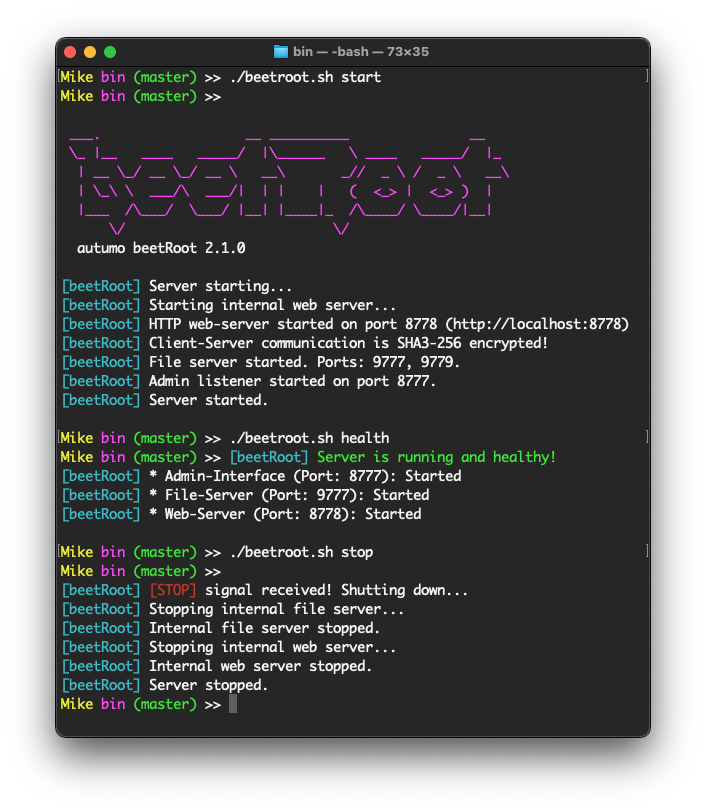
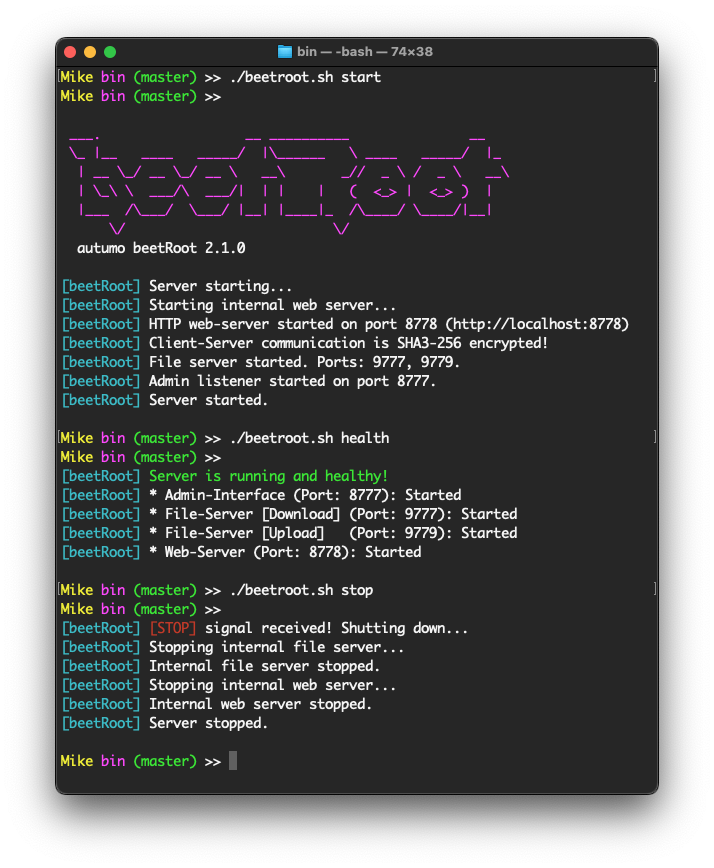
Changes:
- Health status implementation improved

Changed region(s): [[0.0623, 0.0308, 0.9348, 0.9248]]

diff --git a/src/main/java/ch/autumo/beetroot/server/BaseServer.java b/src/main/java/ch/autumo/beetroot/server/BaseServer.java
@@ -26,6 +26,7 @@ import java.io.IOException;
 import java.lang.reflect.Constructor;
 import java.net.ServerSocket;
 import java.net.Socket;
+import java.nio.file.Path;
 import java.util.ArrayList;
 import java.util.HashMap;
 import java.util.Iterator;
@@ -51,7 +52,8 @@ import ch.autumo.beetroot.server.message.ClientAnswer;
 import ch.autumo.beetroot.server.message.HealthAnswer;
 import ch.autumo.beetroot.server.message.ServerCommand;
 import ch.autumo.beetroot.server.message.StopAnswer;
-import ch.autumo.beetroot.server.message.file.PingRequest;
+import ch.autumo.beetroot.server.message.file.PingDownloadRequest;
+import ch.autumo.beetroot.server.message.file.PingUploadRequest;
 import ch.autumo.beetroot.server.modules.Dispatcher;
 import ch.autumo.beetroot.server.modules.FileStorage;
 import ch.autumo.beetroot.transport.DefaultServerSocketFactory;
@@ -758,30 +760,47 @@ public abstract class BaseServer {
 			if (command.getCommand().equals(Communicator.CMD_FILE_REQUEST)) {
 				
 				if (startFileServer) {
-					Download download = null;
-					try {
-						
-						String domain = "default";
-						if (command.getDomain() != null)
-							domain = command.getDomain();
-						
-						if (fileStorage != null)
-							download = fileStorage.findFile(command.getFileId(), domain);
-						else
-							download = this.findFile(command.getFileId(), domain);
-						
-					} catch (Exception e) {
-						LOG.error("Find file request failed for file ID '"+command.getFileId()+"'!", e);
-						System.err.println(BaseServer.ansiErrServerName + " Find file request failed for file ID '"+command.getFileId()+"'!");
-						download = null;
-					}
 					
+					final String fileId = command.getFileId();
+					Download download = null;
+					
+					String domain = "default";
+					if (command.getDomain() != null)
+						domain = command.getDomain();
+					
+					if (fileId.equals(PingDownloadRequest.PING_FILE_ID)) {
+						
+						try {
+							final Path path = OS.createTemporaryFile(PingDownloadRequest.PING_FILE_PREFIX);
+							download = new Download(fileId, path.getFileName().toString(), path.toFile(), domain);
+						} catch (Exception e) {
+							LOG.error("Ping file request failed for file ID '"+fileId+"'!", e);
+							System.err.println(BaseServer.ansiErrServerName + " Find file request failed for file ID '"+fileId+"'!");
+							download = null;
+						}
+						
+					} else { // Default case, really find a file!
+						
+						try {
+							if (fileStorage != null)
+								download = fileStorage.findFile(fileId, domain);
+							else
+								download = this.findFile(fileId, domain);
+							
+						} catch (Exception e) {
+							LOG.error("Find file request failed for file ID '"+fileId+"'!", e);
+							System.err.println(BaseServer.ansiErrServerName + " Find file request failed for file ID '"+fileId+"'!");
+							download = null;
+						}
+					}
+
 					if (download != null) { 
 						fileServer.addToDownloadQueue(download);
 						return new ClientAnswer(download.getFileName(), download.getFileId());
 					} else {
-						return new ClientAnswer("No file found with unique file ID '" + command.getFileId() + "'!", ClientAnswer.TYPE_FILE_NOK);
+						return new ClientAnswer("No file found with unique file ID '" + fileId + "'!", ClientAnswer.TYPE_FILE_NOK);
 					}
+					
 				} else {
 					LOG.error("A client requested a file, but file server is not running!");
 					return new ClientAnswer("File server is not running!", ClientAnswer.TYPE_FILE_NOK);
@@ -888,37 +907,52 @@ public abstract class BaseServer {
 	 */
 	protected boolean printHealthStatus(boolean hasNoIssues) {
 		
-		boolean isAdminPortListening = false;
-		boolean isFileServerPortListening = false;
-		boolean isWebServerPortListening = false;
-
-		PingRequest pingRequest = null;
-		try {
-			pingRequest = new PingRequest();
-		} catch (IOException e) {
-			// Well...
-		}
-		
-		ClientAnswer answer = null;
-		try {
-			answer = ClientCommunicator.sendServerCommand(pingRequest);
-			isAdminPortListening = answer != null;
-		} catch (Exception e) {
-			isAdminPortListening = false;
-		}
+		// If the call made it here, the admin-port is listening!
+		boolean isAdminPortListening = true;
 		hasNoIssues = hasNoIssues && isAdminPortListening;
 
+		boolean isFileDownloadPortListening = false;
+		boolean isFileUploadPortListening = false;
+		boolean isWebServerPortListening = false;
+
 		if (startFileServer) {
+
+			ClientAnswer answer = null;
+			
+			// File server (Download)
+			final PingDownloadRequest pingDownloadRequest = new PingDownloadRequest();
 			try {
-				answer = ClientFileTransfer.sendFile(pingRequest.getFile());			
-				isFileServerPortListening = answer != null;
+				answer = ClientCommunicator.sendServerCommand(pingDownloadRequest);
 			} catch (Exception e) {
-				isFileServerPortListening = false;
 			}
+			try {
+				final File file = ClientFileTransfer.getFile(pingDownloadRequest.getFileId(), PingDownloadRequest.PING_FILE_PREFIX + "del.tmp");			
+				isFileDownloadPortListening = file != null && file.exists();
+				file.delete();
+			} catch (Exception e) {
+				isFileDownloadPortListening = false;
+			}
+			
+			// File server (Upload)
+			PingUploadRequest pingUploadRequest = null;
+			try {
+				pingUploadRequest = new PingUploadRequest();
+				answer = ClientCommunicator.sendServerCommand(pingUploadRequest);
+			} catch (Exception e) {
+			}
+			try {
+				answer = ClientFileTransfer.sendFile(pingUploadRequest.getFile());			
+				isFileUploadPortListening = answer != null && answer.getType() > 0;
+			} catch (Exception e) {
+				isFileUploadPortListening = false;
+			}
+			
 		} else {
-			isFileServerPortListening = true;
+			isFileDownloadPortListening = true;
+			isFileUploadPortListening = true;
 		}
-		hasNoIssues = hasNoIssues && isFileServerPortListening;
+		hasNoIssues = hasNoIssues && isFileDownloadPortListening;
+		hasNoIssues = hasNoIssues && isFileUploadPortListening;
 		
 		if (startWebServer) {
 			final boolean https = BeetRootConfigurationManager.getInstance().getYesOrNo(Constants.KEY_WS_HTTPS);
@@ -941,10 +975,16 @@ public abstract class BaseServer {
 			LOG.info("* Admin-Interface (Port: " + this.portAdminServer + "): ERROR; Port not listening!");
 		
 		if (startFileServer) {
-			if (isFileServerPortListening)
-				LOG.info("* File-Server (Port: " + fileServer.portFileServer + "): Started");
+			
+			if (isFileDownloadPortListening)
+				LOG.info("* File-Server [Download] (Port: " + fileServer.portFileServer + "): Started");
 			else
-				LOG.info("* File-Server (Port: " + fileServer.portFileServer + "): ERROR; Port not listening!");
+				LOG.info("* File-Server [Download] (Port: " + fileServer.portFileServer + "): ERROR; Port not listening!");
+			
+			if (isFileUploadPortListening)
+				LOG.info("* File-Server [Upload]   (Port: " + fileServer.portFileReceiver + "): Started");
+			else
+				LOG.info("* File-Server [Upload]   (Port: " + fileServer.portFileReceiver + "): ERROR; Port not listening!");
 		}
 		if (startWebServer) {
 			if (isWebServerPortListening)
@@ -958,6 +998,8 @@ public abstract class BaseServer {
 		// messes up the logging of a probe, e.g. Windows service manager logs.
 		if (LOG.isErrorEnabled()) {
 			
+			System.out.println("");
+			
 			if (hasNoIssues)
 				System.out.println(ansiServerName + " " + Colors.green("Server is running and healthy!"));
 			else
@@ -969,10 +1011,16 @@ public abstract class BaseServer {
 				System.out.println(ansiErrServerName + " * Admin-Interface (Port: " + this.portAdminServer + "): "+Colors.red("ERROR")+"; Port not listening!");
 				
 			if (startFileServer) {
-				if (isFileServerPortListening)
-					System.out.println(ansiServerName + " * File-Server (Port: " + fileServer.portFileServer + "): Started");
+				
+				if (isFileDownloadPortListening)
+					System.out.println(ansiServerName + " * File-Server [Download] (Port: " + fileServer.portFileServer + "): Started");
 				else
-					System.out.println(ansiErrServerName + " * File-Server (Port: " + fileServer.portFileServer + "): "+Colors.red("ERROR")+"; Port not listening!");
+					System.out.println(ansiErrServerName + " * File-Server [Download] (Port: " + fileServer.portFileServer + "): "+Colors.red("ERROR")+"; Port not listening!");
+				
+				if (isFileUploadPortListening)
+					System.out.println(ansiServerName + " * File-Server [Upload]   (Port: " + fileServer.portFileReceiver + "): Started");
+				else
+					System.out.println(ansiErrServerName + " * File-Server [Upload]   (Port: " + fileServer.portFileReceiver + "): "+Colors.red("ERROR")+"; Port not listening!");
 			}
 			if (startWebServer) {
 				if (isWebServerPortListening)

diff --git a/src/main/java/ch/autumo/beetroot/server/message/file/PingUploadRequest.java b/src/main/java/ch/autumo/beetroot/server/message/file/PingUploadRequest.java
@@ -1,0 +1,42 @@
+/**
+ * 
+ * Copyright (c) 2023 autumo Ltd. Switzerland, Michael Gasche
+ *
+ * Licensed under the Apache License, Version 2.0 (the "License");
+ * you may not use this file except in compliance with the License.
+ * You may obtain a copy of the License at
+ *
+ *    http://www.apache.org/licenses/LICENSE-2.0
+ *
+ * Unless required by applicable law or agreed to in writing, software
+ * distributed under the License is distributed on an "AS IS" BASIS,
+ * WITHOUT WARRANTIES OR CONDITIONS OF ANY KIND, either express or implied.
+ * See the License for the specific language governing permissions and
+ * limitations under the License.
+ * 
+ */
+package ch.autumo.beetroot.server.message.file;
+
+import java.io.IOException;
+
+import ch.autumo.beetroot.utils.OS;
+
+/**
+ * Ping upload request.
+ */
+public class PingUploadRequest extends UploadRequest {
+
+	/**
+	 * Ping file name prefix.
+	 */
+	public static final String PING_FILE_PREFIX = "P_I_N_G_";
+	
+	/**
+	 * Ping request.
+	 * @throws IOException
+	 */
+	public PingUploadRequest() throws IOException {
+		super(OS.createTemporaryFile(PING_FILE_PREFIX).toFile(), null, null);
+	}
+
+}

diff --git a/src/main/java/ch/autumo/beetroot/server/FileServer.java b/src/main/java/ch/autumo/beetroot/server/FileServer.java
@@ -50,7 +50,7 @@ import ch.autumo.beetroot.server.communication.FileTransfer;
 import ch.autumo.beetroot.server.message.ClientAnswer;
 import ch.autumo.beetroot.server.message.ServerCommand;
 import ch.autumo.beetroot.server.message.file.FileAnswer;
-import ch.autumo.beetroot.server.message.file.PingRequest;
+import ch.autumo.beetroot.server.message.file.PingUploadRequest;
 import ch.autumo.beetroot.server.modules.FileStorage;
 import ch.autumo.beetroot.utils.UtilsException;
 
@@ -520,7 +520,7 @@ public class FileServer {
 				return;
 	        }	
 			
-			if (upload.getFileName().startsWith(PingRequest.PING_FILE_PREFIX)) {
+			if (upload.getFileName().startsWith(PingUploadRequest.PING_FILE_PREFIX)) {
 				
 				// Dummy answer!
 				DataOutputStream out = null;
@@ -580,6 +580,10 @@ public class FileServer {
 		        	Communicator.safeClose(out);
 				}							
 			}
+			
+			// Purge the temporary file!
+			if (file != null && file.exists())
+				file.delete();
 			
         	Communicator.safeClose(in);
         	Communicator.safeClose(clientSocket);

diff --git a/src/main/java/ch/autumo/beetroot/server/message/file/PingDownloadRequest.java b/src/main/java/ch/autumo/beetroot/server/message/file/PingDownloadRequest.java
@@ -17,23 +17,26 @@
  */
 package ch.autumo.beetroot.server.message.file;
 
-import java.io.IOException;
-
-import ch.autumo.beetroot.utils.OS;
-
-public class PingRequest extends UploadRequest {
+/**
+ * Ping download request.
+ */
+public class PingDownloadRequest extends DownloadRequest {
 
 	/**
-	 * Ping file name.
+	 * Ping file name prefix.
 	 */
 	public static final String PING_FILE_PREFIX = "P_I_N_G_";
 	
 	/**
-	 * Ping request.
-	 * @throws IOException
+	 * Ping file ID.
 	 */
-	public PingRequest() throws IOException {
-		super(OS.createTemporaryFile(PING_FILE_PREFIX).toFile(), null, null);
+	public static final String PING_FILE_ID = "PING";
+	
+	/**
+	 * Ping download request.
+	 */
+	public PingDownloadRequest() {
+		super(PING_FILE_ID, null);
 	}
 
 }
